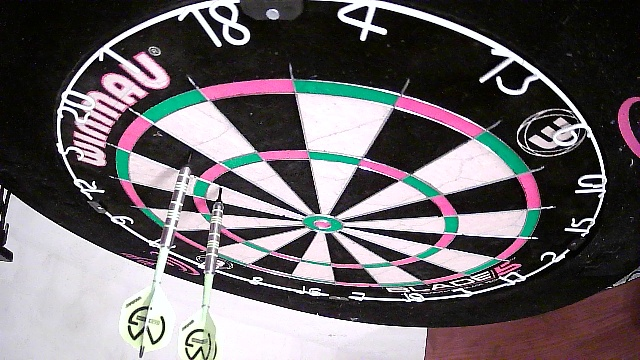
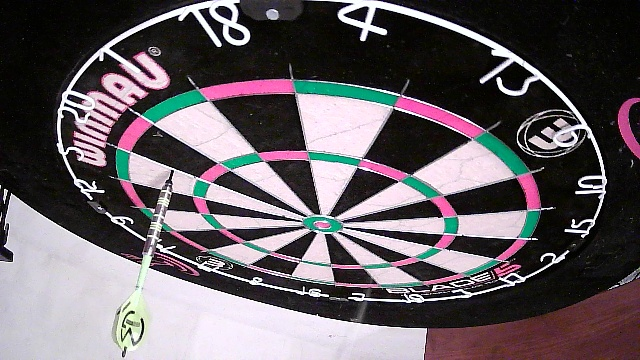
Issue 28 Make test website working again

diff --git a/static/js/waitThrowHandler.js b/static/js/waitThrowHandler.js
@@ -17,14 +17,9 @@ function repeated_ajax_check() {
         type: 'GET',
         success: function(response){
             var obj = JSON.parse(response)
-            console.log(obj.score);
             document.getElementById("score").innerHTML = obj.score
-            document.getElementById("rec_dart").src = "static/jpg/rec_dart.jpg" + "?" + new Date().getTime();
-            document.getElementById("contours").src = "static/jpg/contours.jpg" + "?" + new Date().getTime();
-            document.getElementById("features").src = "static/jpg/features.jpg" + "?" + new Date().getTime();
-            document.getElementById("img_bf_elmnt").src = "static/jpg/before.jpg" + "?" + new Date().getTime();
-            document.getElementById("img_af_elmnt").src = "static/jpg/after.jpg" + "?" + new Date().getTime();
-            document.getElementById("line_filtered").src = "static/jpg/features_line_filtered.jpg" + "?" + new Date().getTime();
+            document.getElementById("event").innerHTML = obj.event
+            document.getElementById("line_detection").src = "static/jpg/line_detection.jpg" + "?" + new Date().getTime();
             
             repeated_ajax_check();
         },

diff --git a/templates/index.html b/templates/index.html
@@ -33,22 +33,15 @@
 
 			<a href=# id=get_score>Wait for throw</a> <br><br>
 
+			<h3>Last event</h3>
+			<h4 id=event>Noting happened yet</h4>
+
 			<h3>Last score</h3>
 			<h4 id=score>0</h4>
 
 			<br><br>
 			<p>Last recognized dart</p>
-			<img id="rec_dart" src="static/jpg/rec_dart.jpg" alt="Last recognized dart">
-			<p>Image before throw</p>
-			<img id="img_bf_elmnt" src="static/jpg/before.jpg" alt="Image before throw">
-			<p>Image after throw</p>
-			<img id="img_af_elmnt" src="static/jpg/after.jpg" alt="Image after throw">
-			<p>Contours</p>
-			<img id="contours" src="static/jpg/contours.jpg" alt="Canny detection">
-			<p>Features</p>
-			<img id="features" src="static/jpg/features.jpg" alt="Canny detection">
-			<p>Line filtered features</p>
-			<img id="line_filtered" src="static/jpg/features_line_filtered.jpg" alt="Canny detection">
+			<img id="line_detection" src="static/jpg/line_detection.jpg" alt="Last recognized dart">
 			<br>
 		</div>
 

diff --git a/app.py b/app.py
@@ -23,14 +23,14 @@ def index():
 
 @app.route('/wait_throw')
 def get_score():
-    #camera.dart_motion_dect()
-    #pos = camera.dartThrow.get_pos(format = 'point')
-    #score = camera.board.get_score(pos)
-    score, event = camManager.motion_detection()
-    return json.dumps({'score': score, 'event': event})
+    score, event, std_pos = camManager.detection()
+    return json.dumps({'score': score, 'event': event, 'pos_x': int(std_pos[0]), 'pos_y': int(std_pos[1])})
 
 if __name__ == '__main__':
     atexit.register(exit_handler)
+    camManager.start_cams()
+    app.run(host='0.0.0.0', port='8090') #, debug=True
+
 
     #for cam in camManager.cam_list:
     #   cam.manual_calibration()
@@ -39,15 +39,13 @@ if __name__ == '__main__':
     #camManager.cam_list[1].calibrate_board(3)
     #camManager.cam_list[2].calibrate_board(4)
 
-    camManager.start_cams()
-    while True:
-        camManager.motion_detection()
+    #camManager.start_cams()
+    #while True:
+        #camManager.motion_detection()
 
-    time.sleep(1)
-    camManager.stop_cams()
-    print('end')
-    #app.run(host='0.0.0.0', port='8090') #, debug=True
-
+    #time.sleep(1)
+    #camManager.stop_cams()
+    #print('end')
     #img = cv2.imread('static/jpg/test_0.jpg')
     #print(camera.board.h)
     #imgWarp = cv2.warpPerspective(img,camManager.cam_list[0].board.h,(800,800))

diff --git a/src/cameraClass.py b/src/cameraClass.py
@@ -12,7 +12,7 @@ import sqlite3
 import json
 
 #testing
-img_count = 0
+img_count = 33
 
 class Camera:
         
@@ -111,10 +111,11 @@ class Camera:
                 #Testing
                 cv2.imwrite(image_before_link, img_before)
                 cv2.imwrite(image_after_link, img_after)
-                #global img_count
-                #dbx.img_upload(image_before_link,'/Images/Session_2020_30_12/before_{}_{}.jpg'.format(self.src, img_count))
-                #dbx.img_upload(image_after_link,'/Images/Session_2020_30_12/after_{}_{}.jpg'.format(self.src, img_count))
-                #img_count = img_count + 1
+                global img_count
+                print(img_count)
+                dbx.img_upload(image_before_link,'/Images/Session_2020_30_12/before_{}_{}.jpg'.format(self.src, img_count))
+                dbx.img_upload(image_after_link,'/Images/Session_2020_30_12/after_{}_{}.jpg'.format(self.src, img_count))
+                img_count = img_count + 1
 
                 self.dartThrow = dartThrowClass.dartThrow(img_before,img_after, self.src)
                 self.motionRatio = ratio_final

diff --git a/src/videoCapture.py b/src/videoCapture.py
@@ -37,6 +37,7 @@ class VideoStream:
         # keep looping infinitely until the thread is stopped
         while self.running:
             (self.success, self.frame) = self.stream.read()
+        time.sleep(0.02)
 
     def read(self):
         # return the frame most recently read

diff --git a/src/camMngClass.py b/src/camMngClass.py
@@ -48,7 +48,7 @@ class camManager:
         for cam in self.cam_list:
             cam.stop()
 
-    def motion_detection(self):
+    def detection(self):
         
         # start motion detection
         t_list = []
